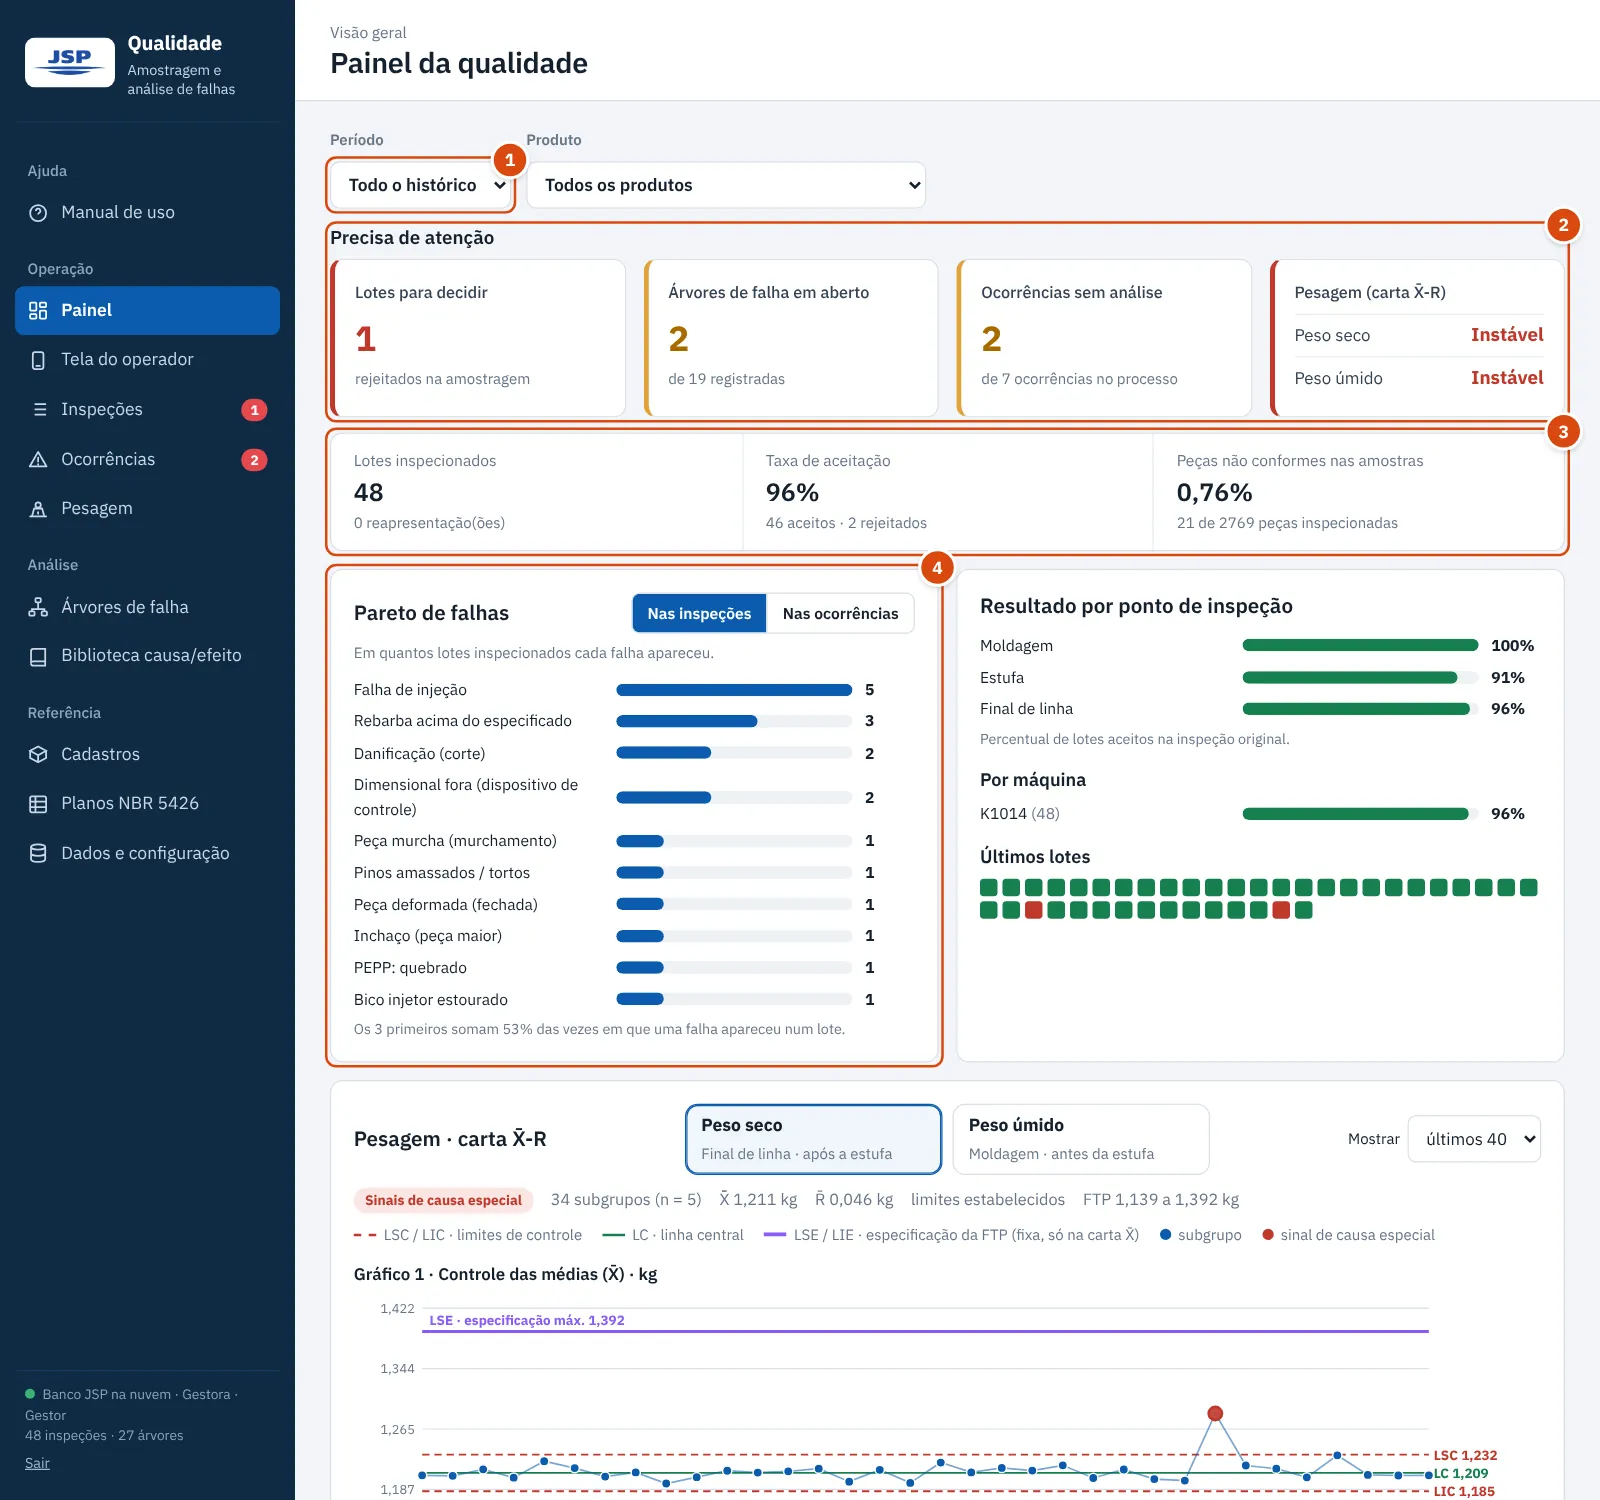
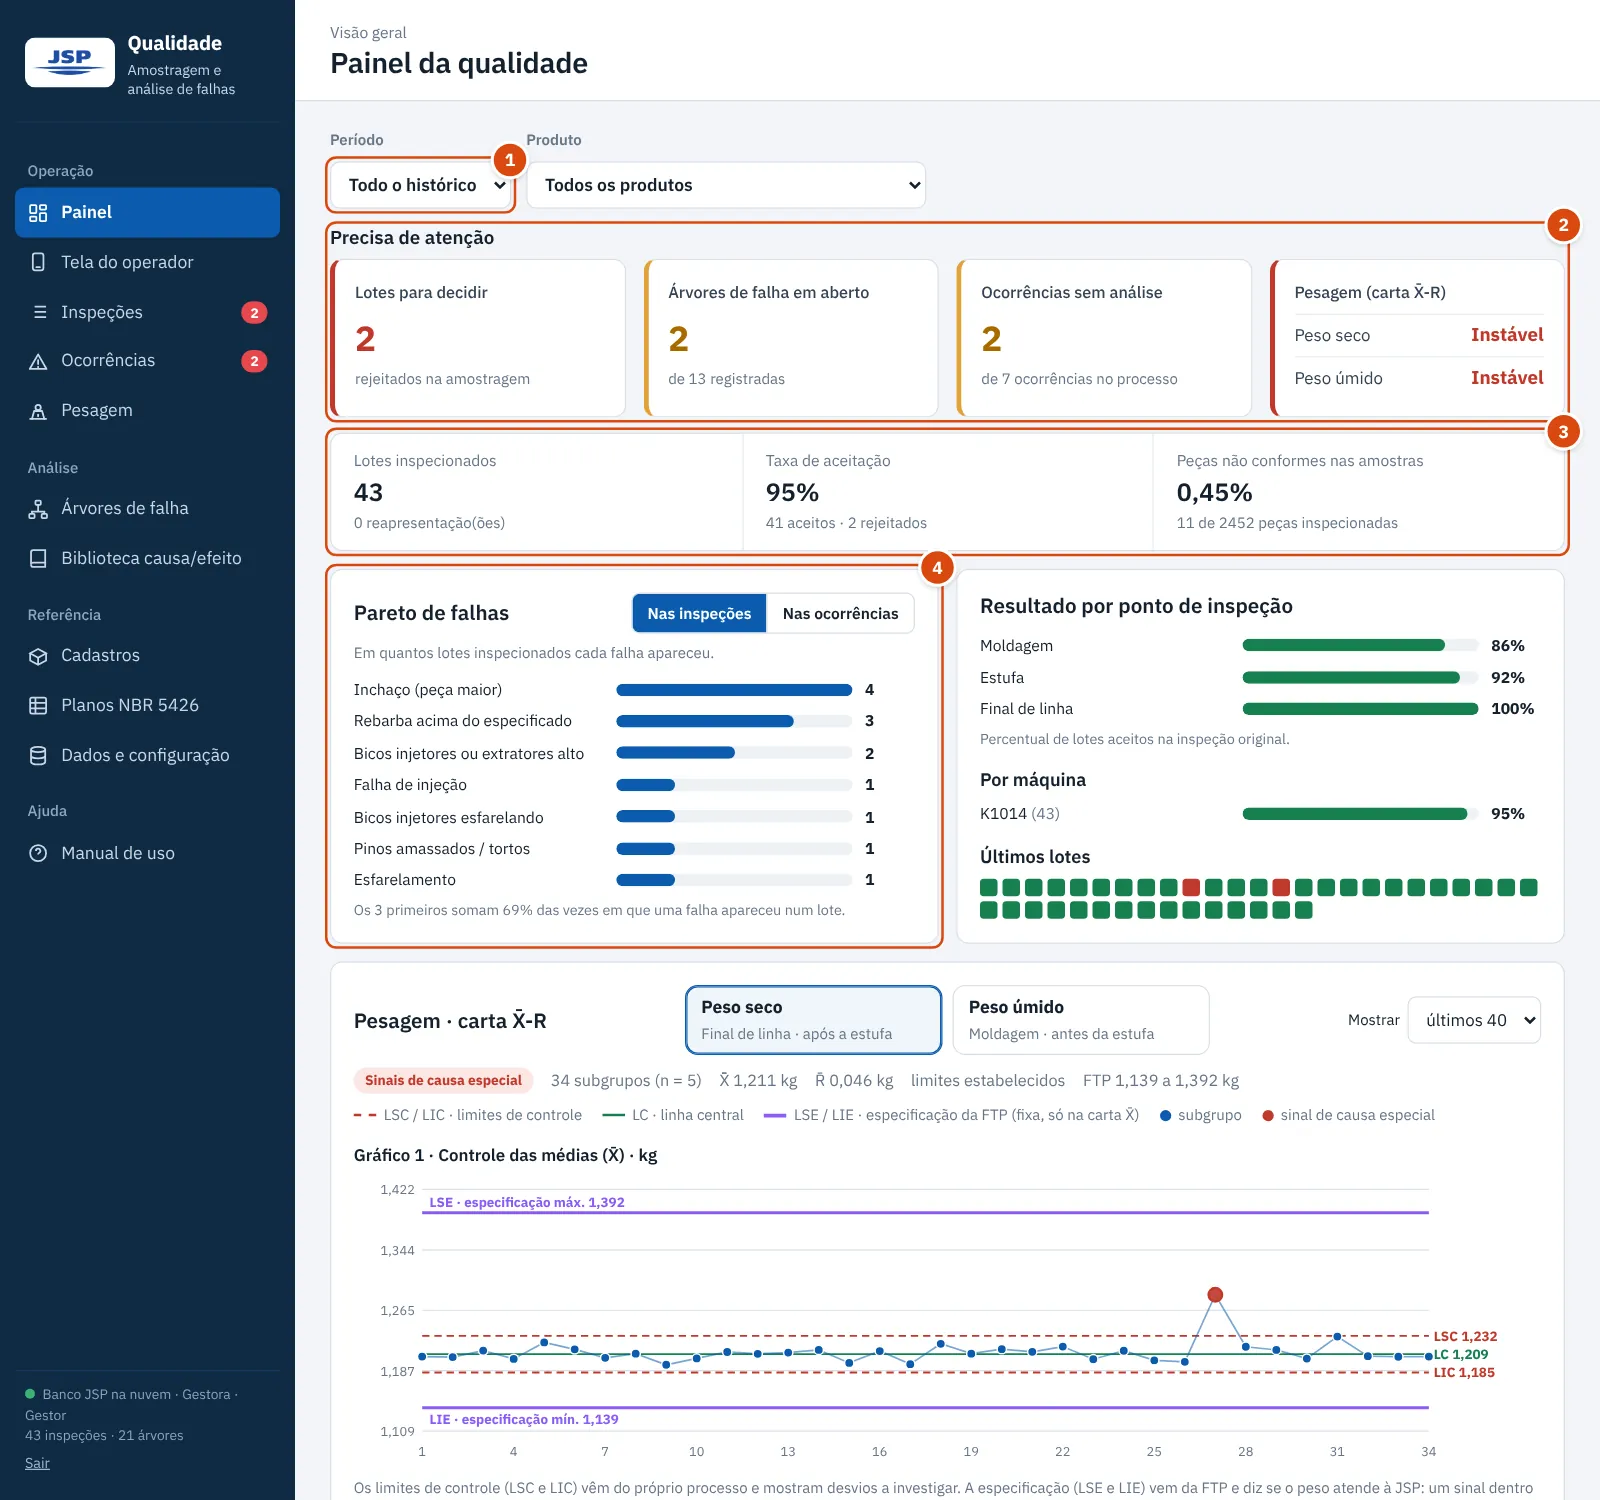
Menu: Manual de uso passa a ser o último item
O grupo Ajuda vai para o fim do menu lateral. Textos do manual e capturas
de tela atualizados para a nova posição.

Claude-Session: https://claude.ai/code/session_019iXJpEHW9SunYqV4Cpm1qo

diff --git a/index.html b/index.html
@@ -1174,7 +1174,6 @@ const ICON={
  db:'<svg viewBox="0 0 24 24" fill="none" stroke="currentColor" stroke-width="2"><ellipse cx="12" cy="5" rx="8" ry="3"/><path d="M4 5v14c0 1.7 3.6 3 8 3s8-1.3 8-3V5M4 12c0 1.7 3.6 3 8 3s8-1.3 8-3"/></svg>'
 };
 const PAGES=[
- {id:"ajuda",t:"Manual de uso",ic:"help",grp:"Ajuda"},
  {id:"painel",t:"Painel",ic:"dash",grp:"Operação"},
  {id:"nova",t:"Nova inspeção",ic:"new",grp:"Operação"},
  {id:"operador",t:"Tela do operador",ic:"op",grp:"Operação"},
@@ -1185,7 +1184,8 @@ const PAGES=[
  {id:"biblioteca",t:"Biblioteca causa/efeito",ic:"book",grp:"Análise"},
  {id:"cadastros",t:"Cadastros",ic:"cad",grp:"Referência"},
  {id:"planos",t:"Planos NBR 5426",ic:"table",grp:"Referência"},
- {id:"dados",t:"Dados e configuração",ic:"db",grp:"Referência"}
+ {id:"dados",t:"Dados e configuração",ic:"db",grp:"Referência"},
+ {id:"ajuda",t:"Manual de uso",ic:"help",grp:"Ajuda"}
 ];
 let route={p:"painel",id:null};
 // Histórico de telas, para o botão "Voltar" das páginas de detalhe (inspeção, árvore, produto)
@@ -2700,7 +2700,7 @@ const MANUAL=[
  d:"O aviso do primeiro acesso e como usar o manual.",
  oque:"Na primeira vez que você entra na sua área, o sistema mostra uma mensagem de boas-vindas recomendando a leitura deste manual. O manual tem uma versão para cada perfil e mostra só o que o seu perfil pode fazer.",
  serve:"Use o manual antes de começar e sempre que tiver dúvida sobre uma tela. Ele fica no menu o tempo todo, mesmo depois que a mensagem de boas-vindas deixa de aparecer.",
- acesso:{i:"Na Tela do operador, botão Manual no alto da tela.",ga:"Menu lateral › Manual de uso (primeiro item do menu)."},
+ acesso:{i:"Na Tela do operador, botão Manual no alto da tela.",ga:"Menu lateral › Manual de uso (último item do menu, no grupo Ajuda)."},
  img:{id:"boasvindas",perfil:"g",prep:"boasvindas",cap:"Mensagem de boas-vindas no primeiro acesso."},
  passos:[
   "No primeiro acesso aparece a janela “Bem-vindo ao sistema!”.",
@@ -2728,7 +2728,7 @@ const MANUAL=[
  acesso:"Aparece em todas as telas depois de entrar.",
  img:{id:"navegar",perfil:"g",rota:"inspecoes",cap:"Tela Inspeções, com o menu lateral."},
  passos:[
-  "No menu lateral {1}, as telas estão agrupadas por assunto: <b>Ajuda</b> (este manual), <b>Operação</b> (Painel, Tela do operador, Inspeções, Ocorrências, Pesagem), <b>Análise</b> (Árvores de falha, Biblioteca causa/efeito) e <b>Referência</b> (Cadastros, Planos NBR 5426, Dados e configuração).",
+  "No menu lateral {1}, as telas estão agrupadas por assunto: <b>Operação</b> (Painel, Tela do operador, Inspeções, Ocorrências, Pesagem), <b>Análise</b> (Árvores de falha, Biblioteca causa/efeito), <b>Referência</b> (Cadastros, Planos NBR 5426, Dados e configuração) e, por último, <b>Ajuda</b> (este manual).",
   "Um número vermelho ao lado de um item {2} mostra pendências: em Inspeções, lotes aguardando decisão ou em inspeção 100%; em Ocorrências, ocorrências com análise em aberto; em Árvores de falha, árvores sem preencher; em Cadastros, pedidos de acesso.",
   "No pé do menu {3}, o ponto colorido mostra a situação do banco. Verde: conectado e tudo enviado. Amarelo: sem conexão, modo local ou alterações ainda sendo enviadas.",
   "No alto da área de trabalho ficam o caminho da tela e o título {4}. Nas páginas de detalhe (um lote, uma árvore, um produto) aparece o botão <b>Voltar para …</b>, que leva à tela de onde você veio.",
